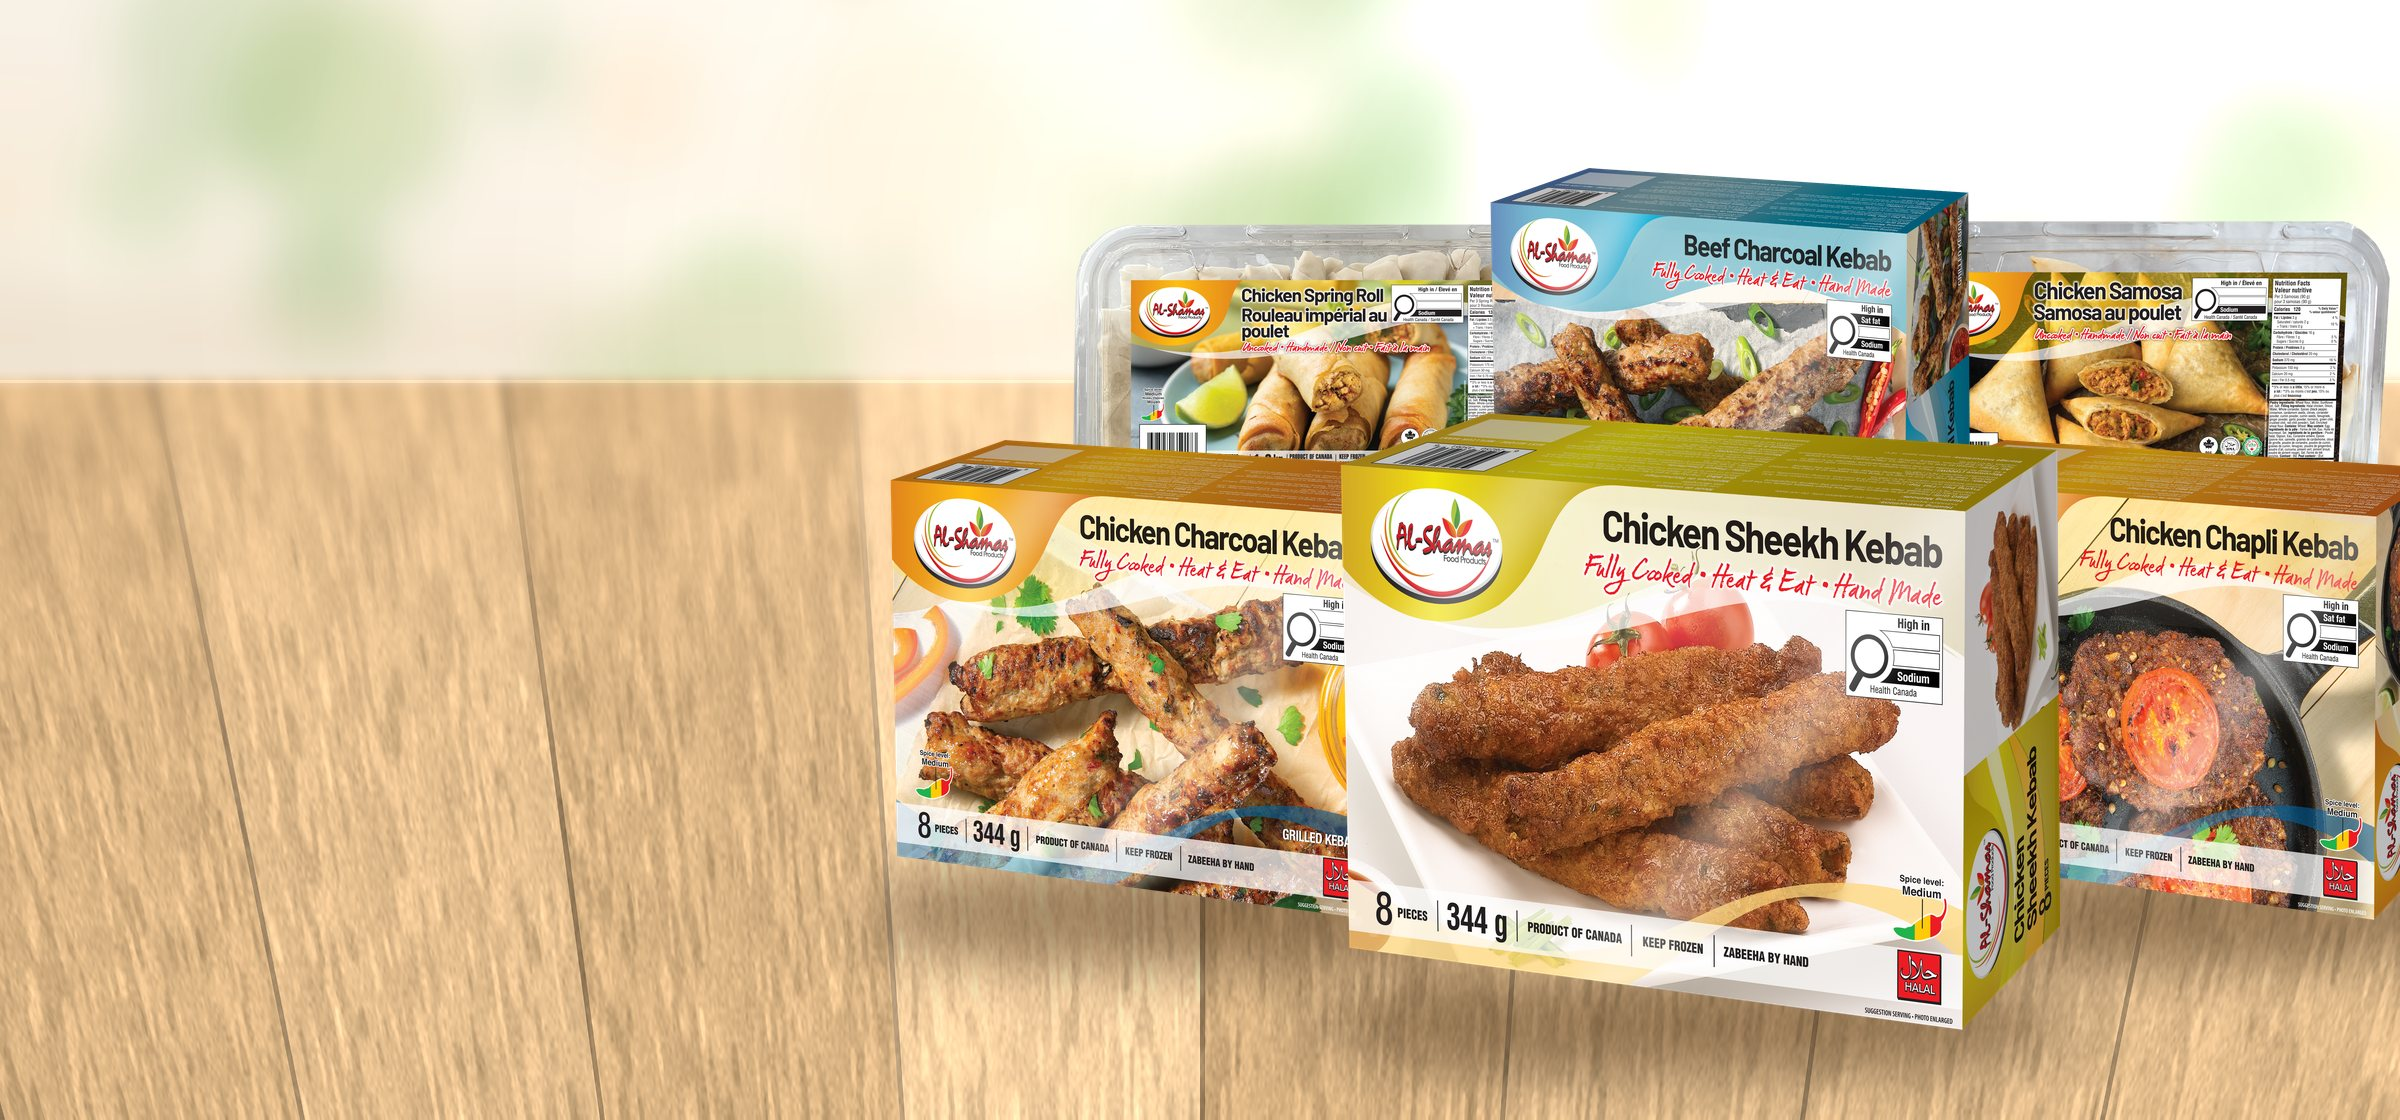
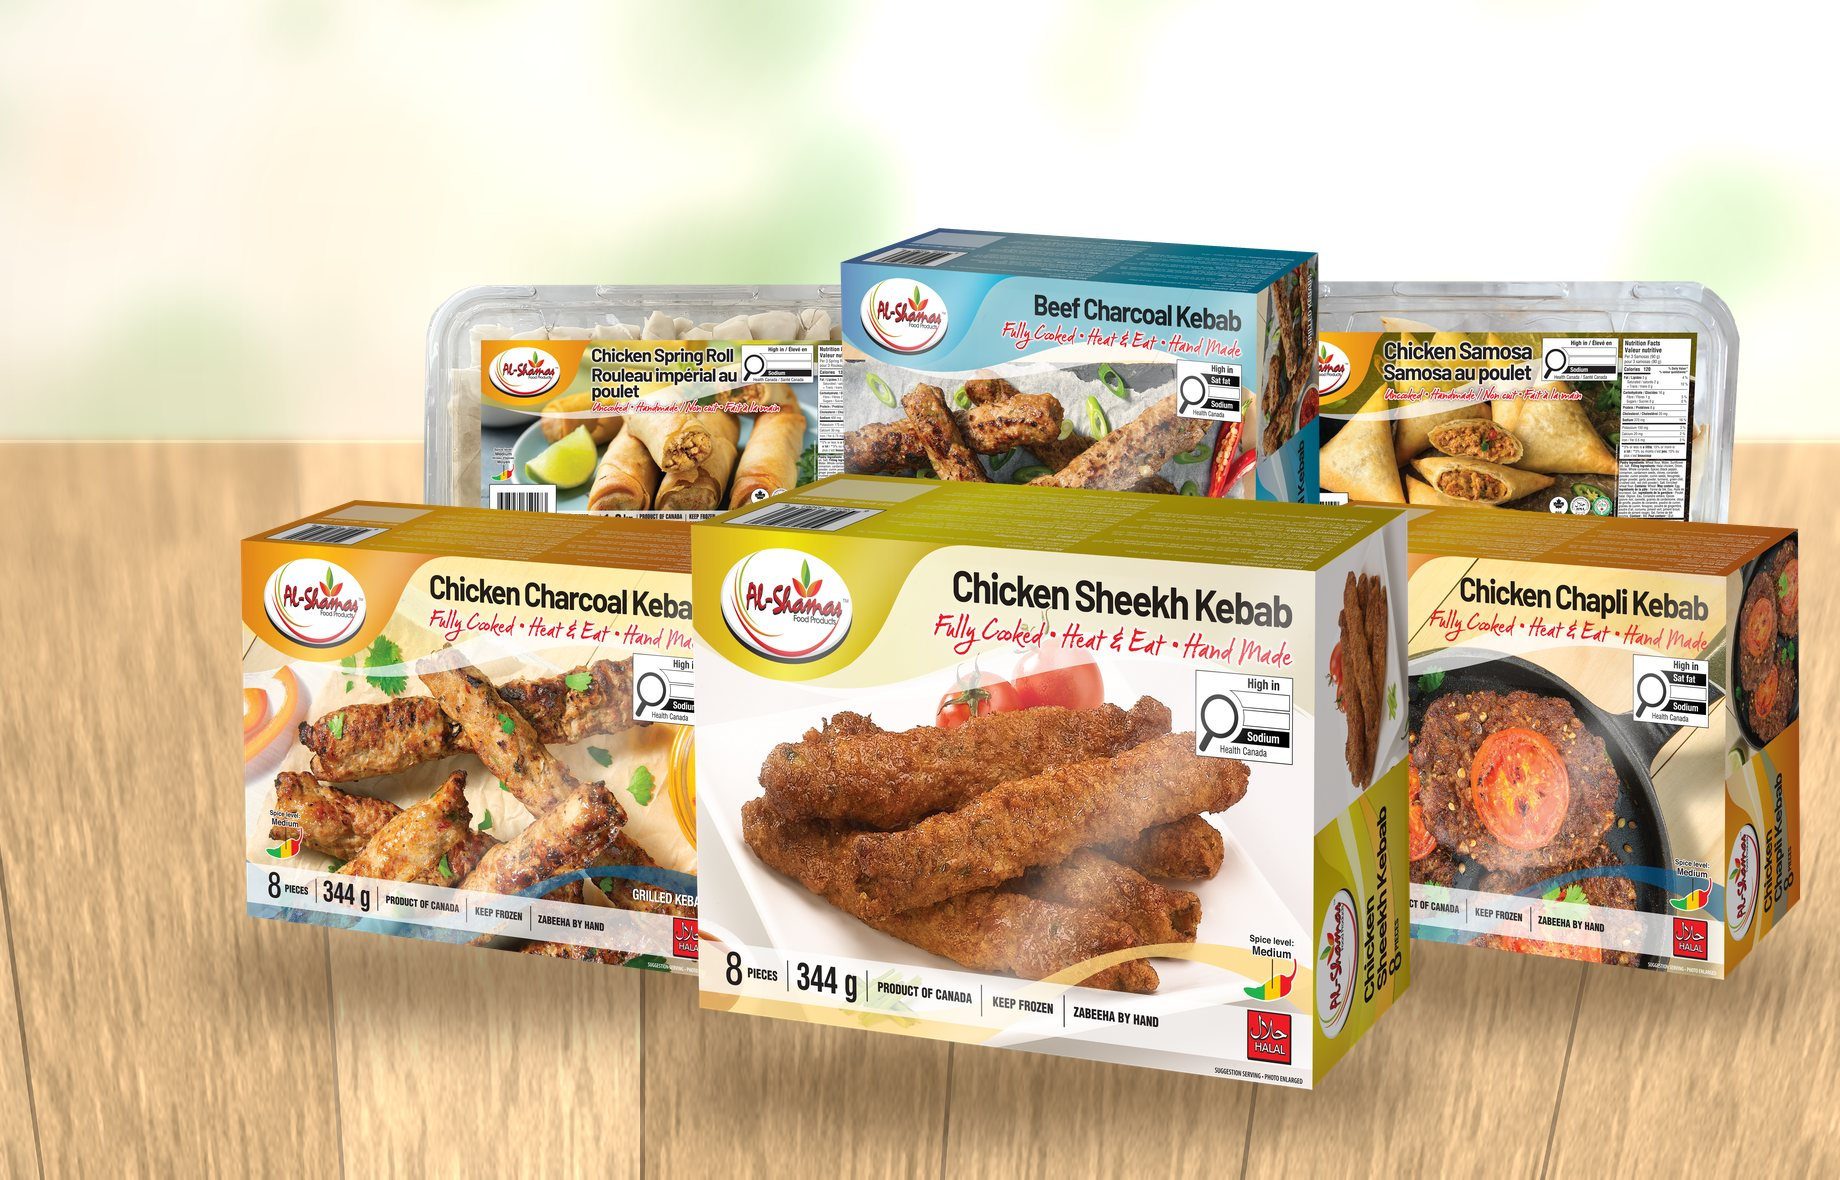
Hero: text left-aligned, gap before product scene, full boxes visible with soft edge fade
Claude-Session: https://claude.ai/code/session_01Qf9GJqPJBmu5kCAbb7o15f

diff --git a/src/pages/HomePage.tsx b/src/pages/HomePage.tsx
@@ -62,12 +62,11 @@ export default function HomePage({ navigate }: HomePageProps) {
           <img
             src={HERO_IMAGE}
             alt={t('Al-Shamas kebab, samosa and spring roll boxes on a table', 'Boîtes de kebabs, samosas et rouleaux impériaux Al-Shamas sur une table')}
-            className="absolute left-0 right-0 bottom-16 h-[300px] sm:h-[360px] lg:top-0 lg:bottom-0 lg:left-[30%] w-full lg:w-[70%] lg:h-full object-cover object-[78%_75%] lg:object-[100%_75%]"
+            className="absolute left-0 right-0 bottom-16 h-[300px] sm:h-[360px] lg:top-24 lg:bottom-12 lg:left-[42%] lg:right-0 w-full lg:w-[58%] lg:h-auto object-cover object-[60%_75%] lg:object-contain lg:object-center lg:[mask-image:linear-gradient(to_right,transparent_0%,black_10%,black_94%,transparent_100%),linear-gradient(to_bottom,transparent_0%,black_14%,black_100%)] lg:[mask-composite:intersect] lg:[-webkit-mask-composite:source-in]"
           />
           {/* White fade behind the text (top on mobile, left on desktop) */}
           <div className="absolute inset-0 lg:hidden bg-[linear-gradient(180deg,#fff_0%,#fff_58%,rgba(255,255,255,0)_66%)]" />
-          <div className="absolute inset-0 hidden lg:block bg-[linear-gradient(90deg,#fff_0%,#fff_38%,rgba(255,255,255,0.85)_45%,rgba(255,255,255,0)_56%)]" />
-
+          
           {/* Red swooshes */}
           <svg className="absolute bottom-0 left-0 w-full h-28 pointer-events-none" viewBox="0 0 1440 112" preserveAspectRatio="none" aria-hidden="true">
             <path d="M0 40 C260 110 560 112 820 78 C1060 46 1260 54 1440 92 V112 H0 Z" fill="#C8102E" />
@@ -75,12 +74,12 @@ export default function HomePage({ navigate }: HomePageProps) {
           </svg>
 
           {/* Text */}
-          <div className="relative h-full max-w-7xl mx-auto px-4 sm:px-6 lg:px-8 flex items-start lg:items-center pt-24 sm:pt-20 lg:pt-6">
-            <div className="w-full lg:w-[46%] max-w-[620px] mx-auto lg:mx-0 text-center">
+          <div className="relative h-full max-w-7xl mx-auto px-4 sm:px-6 lg:px-8 flex items-start lg:items-center pt-24 sm:pt-20 lg:pt-16">
+            <div className="w-full lg:w-[40%] max-w-[620px] mx-auto lg:mx-0 text-center lg:text-left">
               <p className="inline-block bg-brand-red-pale text-brand-red text-xs font-bold tracking-widest uppercase px-4 py-1.5 rounded-full mb-5">
                 {t('Canada’s Halal Frozen Foods', 'Aliments halal surgelés du Canada')}
               </p>
-              <h1 className="font-display font-black text-[#2b1410] leading-[1.02] tracking-tight text-[38px] sm:text-[54px] lg:text-[44px] xl:text-[52px] lg:whitespace-nowrap">
+              <h1 className="font-display font-black text-[#2b1410] leading-[1.02] tracking-tight text-[38px] sm:text-[54px] lg:text-[40px] xl:text-[48px] lg:whitespace-nowrap">
                 {lang === 'fr' ? (
                   <>
                     Aliments <span className="text-brand-red">halal</span>
@@ -95,13 +94,13 @@ export default function HomePage({ navigate }: HomePageProps) {
                   </>
                 )}
               </h1>
-              <p className={`font-script text-brand-red mt-4 leading-tight sm:whitespace-nowrap ${lang === 'fr' ? 'text-[19px] sm:text-[26px] lg:text-[22px] xl:text-[26px]' : 'text-[21px] sm:text-[32px] lg:text-[27px] xl:text-[32px]'}`}>
+              <p className={`font-script text-brand-red mt-4 leading-tight sm:whitespace-nowrap ${lang === 'fr' ? 'text-[19px] sm:text-[26px] lg:text-[19px] xl:text-[23px]' : 'text-[21px] sm:text-[32px] lg:text-[24px] xl:text-[29px]'}`}>
                 {t('Fully Cooked • Heat & Eat • Hand Made', 'Entièrement cuit • Prêt à réchauffer • Fait à la main')}
               </p>
-              <svg className="mx-auto mt-1 w-56 sm:w-72 h-4" viewBox="0 0 300 16" aria-hidden="true">
+              <svg className="mx-auto lg:mx-0 mt-1 w-56 sm:w-72 h-4" viewBox="0 0 300 16" aria-hidden="true">
                 <path d="M4 12 C80 2 200 2 296 8" fill="none" stroke="#C8102E" strokeWidth="4" strokeLinecap="round" />
               </svg>
-              <p className="mt-5 text-gray-700 text-base sm:text-lg leading-relaxed max-w-[520px] mx-auto">
+              <p className="mt-5 text-gray-700 text-base sm:text-lg leading-relaxed max-w-[520px] mx-auto lg:mx-0">
                 {t(
                   'Proudly Canadian since 2013. High-quality halal kebabs, samosas, spring rolls and other ready-to-cook products — made with carefully selected ingredients and authentic recipes, and free from artificial colours.',
                   'Fièrement canadien depuis 2013. Des kebabs, samosas, rouleaux impériaux et autres produits prêts à cuire halal de grande qualité — préparés à partir d’ingrédients soigneusement sélectionnés et de recettes authentiques, sans colorants artificiels.'
